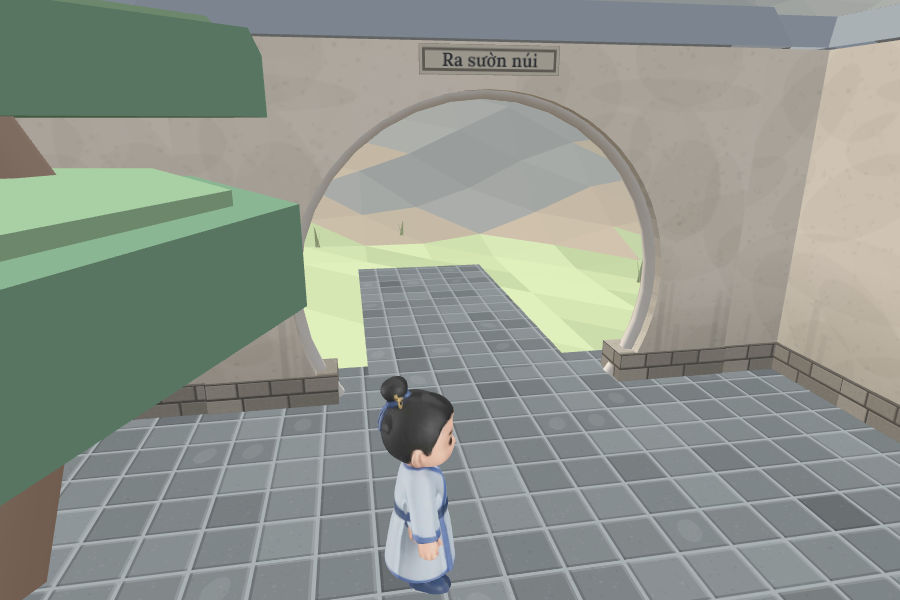
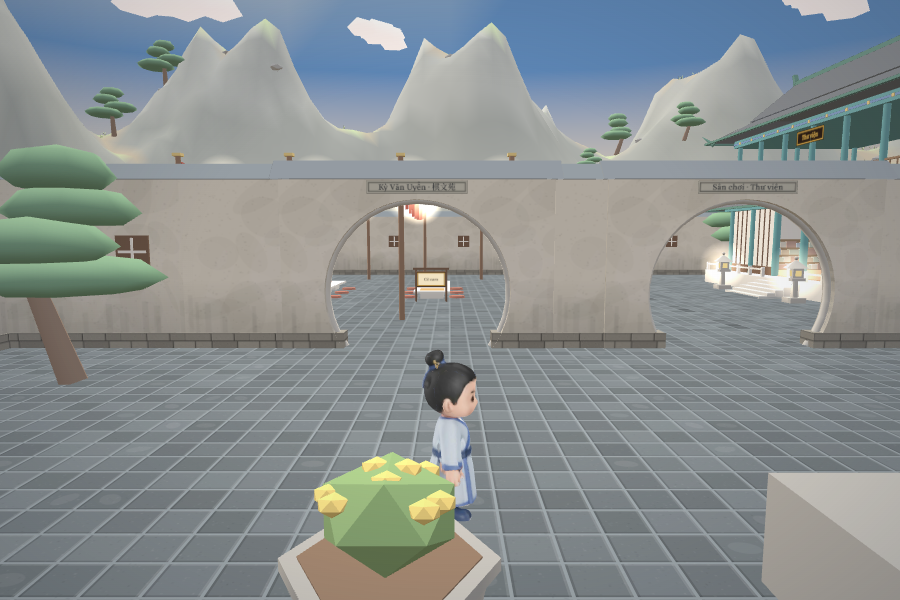
Cổng trăng thứ hai trên tường tây Quảng Trường ngang bàn chơi (V-20261114-24 làm lại)
Sửa 2026-11-14.24 đặt nhầm tường: bỏ cổng x −51 + lối lát ra ngoài; walls.gates thêm cổng
tây tâm z 4 rộng 6,4 (lối 4,6 m), biển "Kỳ Văn Uyển · 棋文苑" / "Quảng trường". R-VA-1, R-GIAO-1
sửa ví dụ (Xác nhận: chờ, chưa đồng bộ online); test va chạm cảnh thật. CHANGELOG 2026-11-14.27,
ảnh Canh-cong-ky-van.png chụp lại góc ảnh người dùng, Canvas 3D bản 55.

diff --git a/web/src/scene/walls.test.ts b/web/src/scene/walls.test.ts
@@ -76,7 +76,7 @@ describe('cổng trên đoạn tường thêm', () => {
   });
 });
 
-describe('R-VA-1: cổng trăng riêng tường tây Kỳ Văn Uyển – Tàng Thư Các (cảnh thật)', () => {
+describe('R-VA-1: cổng trăng thứ hai trên tường tây Quảng Trường, ngang bàn chơi Kỳ Văn Uyển (cảnh thật)', () => {
   const spec = loadScene(HOME_SCENE).spec;
   const real = (): Colliders => {
     const c = new Colliders();
@@ -84,13 +84,22 @@ describe('R-VA-1: cổng trăng riêng tường tây Kỳ Văn Uyển – Tàng 
     return c;
   };
 
-  it('R-VA-1: x −51 tâm z −26,5 rộng 6,4, lối 4,6 m; từ (−49; −26,5) đi tây qua được, z −30 / z −23 dừng ở x −50,25', () => {
-    const gate = wallGates(spec.walls, spec.wallSegments).find((g) => g.axis === 'z' && g.fixed === -51);
-    expect(gate && [gate.at, gate.width, gate.kind]).toEqual([-26.5, 6.4, 'trang']);
-    expect(2 * gateOpening(gate!)).toBeCloseTo(4.6, 6);
-    expect(walk(real(), -49, -26.5, -1, 0, 10).x).toBeLessThan(-55);
-    expect(walk(real(), -49, -30, -1, 0, 10).x).toBeCloseTo(-50.25, 2);
-    expect(walk(real(), -49, -23, -1, 0, 10).x).toBeCloseTo(-50.25, 2);
+  it('R-VA-1: x −17 tâm z 4 rộng 6,4, lối 4,6 m; từ (−15; 4) đi tây qua được, z 0 / z 7,5 dừng ở x −16,25', () => {
+    const west = wallGates(spec.walls, spec.wallSegments).filter((g) => g.axis === 'z' && g.fixed === -17);
+    expect(west.map((g) => g.at).sort((a, b) => a - b)).toEqual([-6, 4]);
+    const gate = west.find((g) => g.at === 4)!;
+    expect([gate.width, gate.kind]).toEqual([6.4, 'trang']);
+    expect(2 * gateOpening(gate)).toBeCloseTo(4.6, 6);
+    expect(walk(real(), -15, 4, -1, 0, 10).x).toBeLessThan(-24);
+    expect(walk(real(), -15, 0, -1, 0, 10).x).toBeCloseTo(-16.25, 2);
+    expect(walk(real(), -15, 7.5, -1, 0, 10).x).toBeCloseTo(-16.25, 2);
+    // ngược lại: từ sân chơi đi đông qua cổng ra Quảng Trường
+    expect(walk(real(), -24, 4, 1, 0, 10).x).toBeGreaterThan(-15);
+  });
+
+  it('tường ngoài x −51 kín (bỏ cổng đặt nhầm 2026-11-14.24)', () => {
+    expect(wallGates(spec.walls, spec.wallSegments).some((g) => g.axis === 'z' && g.fixed === -51)).toBe(false);
+    expect(walk(real(), -49, -26.5, -1, 0, 10).x).toBeCloseTo(-50.25, 2);
   });
 });
 

diff --git a/docs/testing/quy_tac.md b/docs/testing/quy_tac.md
@@ -51,7 +51,7 @@ Code: [web/src/collision/colliders.ts](../../web/src/collision/colliders.ts)
 
 | Mã | Quy tắc | Ví dụ | Xác nhận | App |
 |---|---|---|---|---|
-| R-VA-1 | Nhân vật (bán kính 0,5) không đi xuyên tường, nhà, cột cổng, giếng, ao / hồ, vật trang trí có va chạm (lò đan…) và cây có va chạm (cây trong sân, cụm cây); đi qua được khe cổng trên tường. **Cầu** (cầu vòm, cầu đá, cầu treo ở cảnh vùng) đi qua được nước / vực: mặt cầu lên xuống theo dốc cầu, lan can hai bên chặn (không rơi xuống nước). **Trường Thành**: một đoạn mặt tường đi được — lên xuống bằng mã đạo (dốc ≤ 35°, lan can ngoài mép dốc); trên mặt tường, đoạ khẩu (ngoài) và vũ tường (trong) chặn, chỉ hở đúng khe mã đạo; người dưới đất bị thân tường chặn, người trên mặt tường đi qua phía trên thân tường. Cây vòng ngoài tường, lối lát đá, đảo nổi, mây, **đàn hạc bay, thuyền trôi** không có va chạm. | Tường bao Quảng Trường dày 0,5: mặt trong tường bắc ở z = −16,75 → đi thẳng lên bắc ở x = 12 thì dừng ở z = −16,25. Cổng nam và cổng bắc là cổng mái ngói (門樓) tâm x = 0 rộng 9,6, lối đi 9 m (x −4,5 … 4,5), lối cao 4 m: đi thẳng xuống nam ở x = 0 hay x = 4 thì qua được, ở x = 5 (vào trụ cổng dày 0,8) thì dừng ở z = 16,1; đi thẳng lên bắc ở x = 0 thì qua cổng bắc ra chân Thiên Bậc. Cổng đông và cổng tây là cổng trăng rộng 6,4, lối đi 4,6 m — cổng đông tâm z = 0: đi về đông ở z = 0 thì qua được, ở z = 3 thì dừng ở x = 16,25; cổng tây tâm z = −6: đi về tây ở z = −6 thì qua được. Tường tây khu Kỳ Văn Uyển – Tàng Thư Các (x = −51, dày 0,5) có cổng trăng riêng tâm z = −26,5 rộng 6,4, lối đi 4,6 m (z −28,8 … −24,2), ra dải cỏ chân sườn núi phía tây (nối vòng xuống Cổng Trấn): từ (−49; −26,5) đi về tây thì qua được; ở z = −30 hay z = −23 thì dừng ở x = −50,25. Giang Nam: cầu vòm qua kênh ở x = 0 → đi thẳng lên bắc ở x = 0 thì lên lưng cầu rồi xuống bờ bắc; đi ở x = 2,5 (ra ngoài lan can) thì bị lan can chặn. Trường Thành: mặt tường x −30…−7 ở z −10 cao 6 m; đi từ (−24; −6) về đông lên mã đạo → tới (−12; −6) cao 6 m → rẽ bắc qua khe lên mặt tường; trên tường đi về bắc → đoạ khẩu chặn ở z ≈ −11,8. | chờ | ok |
+| R-VA-1 | Nhân vật (bán kính 0,5) không đi xuyên tường, nhà, cột cổng, giếng, ao / hồ, vật trang trí có va chạm (lò đan…) và cây có va chạm (cây trong sân, cụm cây); đi qua được khe cổng trên tường. **Cầu** (cầu vòm, cầu đá, cầu treo ở cảnh vùng) đi qua được nước / vực: mặt cầu lên xuống theo dốc cầu, lan can hai bên chặn (không rơi xuống nước). **Trường Thành**: một đoạn mặt tường đi được — lên xuống bằng mã đạo (dốc ≤ 35°, lan can ngoài mép dốc); trên mặt tường, đoạ khẩu (ngoài) và vũ tường (trong) chặn, chỉ hở đúng khe mã đạo; người dưới đất bị thân tường chặn, người trên mặt tường đi qua phía trên thân tường. Cây vòng ngoài tường, lối lát đá, đảo nổi, mây, **đàn hạc bay, thuyền trôi** không có va chạm. | Tường bao Quảng Trường dày 0,5: mặt trong tường bắc ở z = −16,75 → đi thẳng lên bắc ở x = 12 thì dừng ở z = −16,25. Cổng nam và cổng bắc là cổng mái ngói (門樓) tâm x = 0 rộng 9,6, lối đi 9 m (x −4,5 … 4,5), lối cao 4 m: đi thẳng xuống nam ở x = 0 hay x = 4 thì qua được, ở x = 5 (vào trụ cổng dày 0,8) thì dừng ở z = 16,1; đi thẳng lên bắc ở x = 0 thì qua cổng bắc ra chân Thiên Bậc. Cổng đông và cổng tây là cổng trăng rộng 6,4, lối đi 4,6 m — cổng đông tâm z = 0: đi về đông ở z = 0 thì qua được, ở z = 3 thì dừng ở x = 16,25; cổng tây tâm z = −6: đi về tây ở z = −6 thì qua được. Tường tây Quảng Trường (x = −17) có thêm cổng trăng thứ hai tâm z = 4 rộng 6,4, lối đi 4,6 m (z 1,7 … 6,3), ngay ngang bàn cờ Kỳ Văn Uyển: từ (−15; 4) đi về tây thì qua được vào sân chơi; ở z = 0 hay z = 7,5 (vào tường / trụ cổng) thì dừng ở x = −16,25. Tường ngoài x = −51 kín, không có cổng. Giang Nam: cầu vòm qua kênh ở x = 0 → đi thẳng lên bắc ở x = 0 thì lên lưng cầu rồi xuống bờ bắc; đi ở x = 2,5 (ra ngoài lan can) thì bị lan can chặn. Trường Thành: mặt tường x −30…−7 ở z −10 cao 6 m; đi từ (−24; −6) về đông lên mã đạo → tới (−12; −6) cao 6 m → rẽ bắc qua khe lên mặt tường; trên tường đi về bắc → đoạ khẩu chặn ở z ≈ −11,8. | chờ | ok |
 | R-VA-2 | Khi cảnh có địa hình: nhân vật đi trên mặt đất, lên xuống theo độ cao. Không bước được vào mặt đất dốc hơn 35° (cả lên lẫn xuống), như gặp tường; vì vậy không đi ra khỏi mép cao nguyên (vực xuống biển mây). Đang đứng trên mặt dốc hơn 35° thì chỉ đi xuống được. | Kè đá cao 1,5 m trong bề ngang 1 m (dốc ≈ 56°) → dừng ở chân kè. Sườn đồi dốc 30° → đi lên được, nhân vật cao dần theo mặt đất. Đi tới mép vực → dừng ở mép. | đúng | ok |
 | R-VA-3 | Nhà vào được ở trấn — **trà lâu, Tàng Thư Các, cửa hàng phố chợ** (tầng 1) và **sân khấu hí đài**: tường, cột, quầy, bàn, ghế chặn nhân vật; mặt tiền mở đi vào được. Hí đài: nền cao 1,5 m, lên xuống bằng bậc hai bên hậu đài; mép sân khấu chặn (không bước / nhảy lên hay xuống ở mép trước, mép bên). **Tàng Thư Các và trà lâu (Phẩm Minh Các) lên được tầng 2** bằng **thang thẳng một vế ngoài trời** dọc đầu hồi bên phải (sửa L-6, 2026-11-13): chân thang ở mặt đất phía trước, đi thẳng về sau (dốc ≤ 35°) lên chiếu nghỉ, rẽ trái qua cầu nối vào sàn tầng 2; lan can hai bên thang, quanh chiếu nghỉ và cầu nối chặn (không rơi); người dưới đất không lọt vào gầm thang. Đi dưới sàn tầng 2 vẫn ở tầng 1; tầng 2 **không tường, chỉ cột** — lan can gỗ thấp (~0,9 m) giữa các cột quanh mép sàn chặn (không rơi xuống, không ra ngoài; mép hồi phải chỉ hở chỗ cầu nối); vật tầng 1 không chặn người ở tầng 2 và ngược lại. Tầng 2 của cửa hàng chỉ nhìn, không lên được. Trà lâu tầng 1: 3 bàn trà + quầy trà. | Trà lâu Phẩm Minh Các (0; −60) quay nam: đi từ (0; −51) về bắc vào gian giữa → vào trong, dừng trước bàn trà; đi vòng ra sau nhà → tường sau chặn; ra ngoài, tới chân thang ngoài hồi phải (x ≈ 11,8) → đi thẳng lên chiếu nghỉ → qua cầu nối vào tầng 2; trên tầng 2 đi ra mép trước → lan can chặn, vẫn ở tầng 2. Hí đài (0; −11), sân khấu z −15,5…−6,5: đứng dưới sân ở (0; −3) đi thẳng bắc → mép sân khấu chặn, dừng ở z ≈ −6; đi vòng ra bậc phía sau bên trái → lên tới sân khấu, đứng ở (0; −10) cao 1,5 m. Tàng Thư Các (−33; −22): chân thang ngoài hồi phải ở (−21,4; −13) → đi thẳng về bắc lên chiếu nghỉ → qua cầu nối vào tầng 2; đi về phía tây trên tầng 2 → vẫn ở tầng 2; đang giữa thang đi ngang ra ngoài → lan can chặn. Ở tầng 1 đi tới án đọc giữa nhà → vẫn ở tầng 1. | chờ | ok |
 | R-VA-4 | **Chỗ ngồi tự học tầng 2 Tàng Thư Các**: không có án / bàn, chỉ **24 bồ đoàn vuông** xếp lưới 4 hàng × 6, người ngồi nhìn về nam; bồ đoàn không chặn người đi. Sát tường sau phía đông có **biển gỗ "Khu tự học"** (chữ Việt, mặt nhìn vào sàn), chặn người ở tầng 2, không chặn tầng 1; đứng gần biển → nút nổi **"Hướng dẫn"** → bảng hướng dẫn khu tự học (R-VA-5). Ngồi lên bồ đoàn khu tự học (nút nổi "Ngồi") đủ **1 giây** → nhập định + cuộn sách **trước mặt** + các mục như Ngồi ôn (R-ON-8): "Ôn bộ đến hạn (n)", "Xem bộ đã học" như mọi nơi, "Học bộ mới" mờ ghi "Học ở Rừng trúc" (R-VUNG-1); "Đứng dậy" → đứng khỏi bồ đoàn; đóng thẻ / màn ôn / danh sách → vẫn ngồi trên bồ đoàn, bảng hiện lại. **Tầng 2 trà lâu (Phẩm Minh Các)** có 4 kiểu chỗ ngồi, tổng **18 chỗ**: **2 sập trà** sát tường sau — sập gỗ thấp (cao 0,45 m) có tựa ba mặt (sau + hai đầu), kỷ trà ở giữa, 2 chỗ ngồi **trên sập** ở hai đầu quay mặt vào nhau; **4 ghế đơn sát lan can** (2 mặt trước, 2 hồi trái) — bồ đoàn + bàn nhỏ phía lan can, người ngồi **quay ra ngoài** nhìn cảnh, nhìn từ mắt (R-DIEU-7), hai tay trên lan can; **1 bàn dài tụ hội** 6 chỗ (3 bồ đoàn mỗi bên, quay mặt vào bàn); **2 bàn trà đôi** (bồ đoàn bắc + nam, quay mặt vào bàn). Bàn, sập trà lâu chặn nhân vật (không bước lên sập); dải phía đông sàn tầng 2 (lối từ cầu nối thang) để trống. Đứng **cùng tầng** cách một chỗ ngồi dưới 1,2 m → nút nổi **"Ngồi"** (R-NGOI-1); bấm → nhân vật dời lên chỗ đó (chỗ trên sập: cao theo mặt sập), quay theo chỗ ngồi và ngồi xếp bằng; điều khiển đi thì đứng dậy như R-DIEU-7 (đang trên sập → bước xuống phía trước sập, đứng trên sàn). Chỗ ngồi trà lâu không mở cuộn sách / bài học, không ghi tiến độ (R-VUNG-1). Ở tầng 1 ngay dưới một chỗ ngồi → không có nút (khác tầng); bấm Ngồi ôn → ngồi tại chỗ ở tầng 1. | Tàng Thư Các: lên tầng 2, thấy biển "Khu tự học" sát tường sau phía đông, đi vào biển → bị chặn; đứng cạnh bồ đoàn đầu hàng ~0,8 m → nút "Ngồi"; bấm → ngồi lên bồ đoàn, nhìn về phía cửa trước (nam); 1 giây → cuộn sách, bảng chọn "Học bộ mới" mờ "Học ở Rừng trúc"; bấm "Đứng dậy" → đứng khỏi bồ đoàn; đi thẳng qua chỗ có bồ đoàn → không bị chặn. Tầng 1 ngay dưới biển → đi qua được. Trà lâu: lên tầng 2, đứng trước sập trà (phía nam, cách đầu sập ~1 m) → "Ngồi"; bấm → ngồi trên sập cao hơn sàn 0,45 m, quay vào kỷ trà; giữ joystick → bước xuống, đứng trên sàn trước sập. Đứng sau ghế đơn mặt trước → "Ngồi"; bấm → ngồi quay về nam, nhìn ra núi qua lan can. Đi từ cầu nối thang dọc mép đông xuống mặt trước → không vướng bàn ghế nào. Xuống tầng 1, đứng dưới đúng chỗ đó → không có nút; bấm Ngồi ôn → ngồi tại chỗ, vẫn ở tầng 1. | chờ | ok · ghế lan can tay đặt lên lan can (camera + tay nhoài tới, dáng ngồi ngoài cảnh không đổi): `scene/tayNgoiDang.test.ts` |
@@ -119,7 +119,7 @@ Code: [web/src/games/](../../web/src/games/), [web/src/gamePlay.ts](../../web/sr
 
 | Mã | Quy tắc | Ví dụ | Xác nhận | App |
 |---|---|---|---|---|
-| R-GIAO-1 | Khu giao lưu **Kỳ Văn Uyển** (棋文苑) — sân phía nam trong khu tường phía tây Quảng Trường (vào qua cổng tây Quảng Trường, hoặc cổng trăng riêng trên tường tây x −51 ở phía Tàng Thư Các; chung sân với Tàng Thư Các, không tường ngăn) — có hai **bàn đá dài**: **bàn cờ** và **bàn Đấu chữ**. Mỗi bàn **3 chỗ chơi** dọc bàn; mỗi chỗ một bàn cờ (hoặc thẻ bộ thủ) riêng và **hai bồ đoàn đối diện** nhau — 6 ghế một bàn. NPC của bàn (cờ: Tiểu Mặc, Đấu chữ: Mặc Ông) **không đứng ở bàn**: vẫn đi nước / chọn nghĩa và nói qua khung thoại. Đứng cách **một ghế bất kỳ** dưới 1,5 m → nút nổi **"Vào bàn"** (R-NGOI-1); bấm → ngồi vào ghế gần nhất, quay mặt vào bàn (về ghế đối diện), camera trượt vào **mắt mình** rồi **cúi nhoài nhìn xuống chỗ chơi** (khoảng 70°), bàn cờ / thẻ vừa bề ngang màn; không thấy đầu, thân mình; **hai tay** ở mép dưới — đặt quân thì tay phải đưa quân tới giao điểm rồi rút về (Đấu chữ: hai tay cầm mép thẻ bộ thủ, 4 nghĩa vẫn ở HUD R-DAU-2); thẻ bộ thủ quay chữ về phía mình, ván mới bắt đầu ở chỗ đó. Đang ngồi chơi: **ẩn joystick và cụm nút Nhảy / Chào / Ngồi ôn**; chạm màn hình là chạm vào bàn (không đi tới chỗ chạm, không xoay camera); nút **"Rời bàn"** góc trên trái (máy tính: phím **Esc**, hoặc đi bằng phím) → đứng dậy, ván đang chơi **bỏ** (không tính), chỗ đó dọn sạch, tỉ số phiên về 0. Người chơi đấu với nhau ở ghế đối diện: **chưa có** (cần nhiều người chơi trực tuyến). | Bàn cờ dài tâm (−34; 4), 3 chỗ ở x −36,5 / −34 / −31,5 (cách nhau 2,5 m); mặt bàn sâu 2 m; mỗi chỗ ghế phía nam z 5,4 và phía bắc z 2,6. Đứng ở (−36,5; 6,5) → nút "Vào bàn"; bấm → ngồi lên (−36,5; 5,4), nhìn về bắc, ván cờ bắt đầu ở chỗ x −36,5. Đứng ở (−34; 1,5) bấm "Vào bàn" → ngồi (−34; 2,6), nhìn về nam. Ngồi bàn cờ → không thấy joystick, nút Nhảy / Chào / Ngồi ôn; chạm giao điểm ở mép trái màn → đặt quân. Đặt 3 quân rồi bấm "Rời bàn" → đứng dậy, chỗ đó trống, joystick hiện lại. Đứng ở (−34; 7,5) (cách ghế gần nhất 2,1 m) → không có nút; bấm Ngồi ôn → ngồi tại chỗ. Không có NPC đứng cạnh bàn. | chờ | ok · tay đặt quân: `scene/tayNgoiDang.test.ts` |
+| R-GIAO-1 | Khu giao lưu **Kỳ Văn Uyển** (棋文苑) — sân phía nam trong khu tường phía tây Quảng Trường (vào qua cổng tây Quảng Trường, hoặc cổng trăng thứ hai trên tường tây Quảng Trường ngay ngang chỗ bàn chơi (tâm z 4); chung sân với Tàng Thư Các, không tường ngăn) — có hai **bàn đá dài**: **bàn cờ** và **bàn Đấu chữ**. Mỗi bàn **3 chỗ chơi** dọc bàn; mỗi chỗ một bàn cờ (hoặc thẻ bộ thủ) riêng và **hai bồ đoàn đối diện** nhau — 6 ghế một bàn. NPC của bàn (cờ: Tiểu Mặc, Đấu chữ: Mặc Ông) **không đứng ở bàn**: vẫn đi nước / chọn nghĩa và nói qua khung thoại. Đứng cách **một ghế bất kỳ** dưới 1,5 m → nút nổi **"Vào bàn"** (R-NGOI-1); bấm → ngồi vào ghế gần nhất, quay mặt vào bàn (về ghế đối diện), camera trượt vào **mắt mình** rồi **cúi nhoài nhìn xuống chỗ chơi** (khoảng 70°), bàn cờ / thẻ vừa bề ngang màn; không thấy đầu, thân mình; **hai tay** ở mép dưới — đặt quân thì tay phải đưa quân tới giao điểm rồi rút về (Đấu chữ: hai tay cầm mép thẻ bộ thủ, 4 nghĩa vẫn ở HUD R-DAU-2); thẻ bộ thủ quay chữ về phía mình, ván mới bắt đầu ở chỗ đó. Đang ngồi chơi: **ẩn joystick và cụm nút Nhảy / Chào / Ngồi ôn**; chạm màn hình là chạm vào bàn (không đi tới chỗ chạm, không xoay camera); nút **"Rời bàn"** góc trên trái (máy tính: phím **Esc**, hoặc đi bằng phím) → đứng dậy, ván đang chơi **bỏ** (không tính), chỗ đó dọn sạch, tỉ số phiên về 0. Người chơi đấu với nhau ở ghế đối diện: **chưa có** (cần nhiều người chơi trực tuyến). | Bàn cờ dài tâm (−34; 4), 3 chỗ ở x −36,5 / −34 / −31,5 (cách nhau 2,5 m); mặt bàn sâu 2 m; mỗi chỗ ghế phía nam z 5,4 và phía bắc z 2,6. Đứng ở (−36,5; 6,5) → nút "Vào bàn"; bấm → ngồi lên (−36,5; 5,4), nhìn về bắc, ván cờ bắt đầu ở chỗ x −36,5. Đứng ở (−34; 1,5) bấm "Vào bàn" → ngồi (−34; 2,6), nhìn về nam. Ngồi bàn cờ → không thấy joystick, nút Nhảy / Chào / Ngồi ôn; chạm giao điểm ở mép trái màn → đặt quân. Đặt 3 quân rồi bấm "Rời bàn" → đứng dậy, chỗ đó trống, joystick hiện lại. Đứng ở (−34; 7,5) (cách ghế gần nhất 2,1 m) → không có nút; bấm Ngồi ôn → ngồi tại chỗ. Không có NPC đứng cạnh bàn. | chờ | ok · tay đặt quân: `scene/tayNgoiDang.test.ts` |
 | R-GIAO-2 | Mỗi bàn chơi ở Kỳ Văn Uyển có một **biển gỗ đứng** ở đầu bàn ghi tên trò: bằng chữ Việt: bàn cờ **Cờ caro**, bàn Đấu chữ **Đấu chữ**. Đứng cách biển **dưới 2,5 m** (không đang ngồi, không đang nói chuyện / xem bản đồ / màn phủ) → nút nổi **"Cách chơi"** trên biển, kèm tên trò. Bấm → mở **bảng cách chơi** của trò đó (phủ lên cảnh, nhân vật đứng yên): tên trò, mục tiêu, cách đi từng lượt, thắng / thua / hoà, hình minh hoạ, cách vào bàn và rời bàn; nút đóng (và nút quay lại của máy) → về cảnh. Nội dung bảng nói đúng luật của trò (R-GIAO-1, R-CO-1…3, R-DAU-1…2). Đứng gần hai biển cùng lúc → nút của biển gần hơn. Bảng Đấu chữ khi chưa học bộ thủ nào → thêm ô báo "Đạo hữu chưa học bộ thủ nào" ở đầu (vẫn đọc được luật). | Biển bàn cờ ở (−29,5; 4). Đứng ở (−28; 4) (cách 1,5 m) → nút "Cách chơi · Cờ caro"; bấm → bảng cách chơi cờ caro (Ngũ Tử Kỳ): "bàn 13 × 13, cầm quân đen đi trước, 5 quân liền ngang / dọc / chéo thắng" + hình 5 quân liền; đóng → về cảnh, đứng chỗ cũ. Đứng ở (−26; 4) (cách 3,5 m) → không có nút. Đang ngồi vào bàn → không có nút. | chờ | ok |
 | R-CO-1 | **Ngũ Tử Kỳ** (五子棋): bàn 13 × 13 giao điểm. Người chơi cầm quân **đen, đi trước**; NPC cầm quân trắng. Tới lượt người: chạm vào giao điểm trống → đặt quân; chạm giao điểm đã có quân, chạm ngoài bàn, hoặc chạm lúc NPC đang nghĩ → không có gì. Một bên có **từ 5 quân cùng màu trở lên liền nhau** theo hàng ngang, dọc hoặc chéo → bên đó thắng ngay. Bàn đầy (169 quân) mà chưa ai thắng → hoà. | Đen có (3;7) (4;7) (5;7) (6;7), đặt (7;7) → đen thắng. Đen có 4 quân chéo (2;2) … (5;5) và (7;7), đặt (6;6) → 6 quân liền, đen thắng. Chạm (3;7) đã có quân → không đổi gì, vẫn lượt người. | chờ | ok |
 | R-CO-2 | NPC đáp sau khoảng **0,5–1 giây**. Có nước đặt vào là thắng ngay → NPC luôn đặt nước đó. Không có, mà người chơi có nước thắng ngay (ví dụ 4 quân liền còn một đầu trống) → NPC luôn chặn. Còn lại NPC chọn nước tốt nhất theo điểm: nối dài hàng của mình, chặn hàng 3 hở hai đầu của người. Ván đầu tiên trên bàn trống, NPC không đi trước. | Đen có (3;7) (4;7) (5;7) (6;7), (2;7) đã có quân trắng → NPC đặt (7;7). Trắng có (5;2) (5;3) (5;4) (5;5), đen vừa tạo 4 quân liền khác → NPC đặt (5;6) hoặc (5;1) để thắng, không chặn. | chờ | ok |

diff --git a/design/CHANGELOG.md b/design/CHANGELOG.md
@@ -3,6 +3,27 @@
 Mỗi lần chốt một mục, mới nhất ở trên. Mã `<YYYY-MM-DD>.<số>`. Mỗi mục: loại (token · chuỗi · giao diện ·
 luồng/luật · dữ liệu), màn / thành phần, phiếu đáp ứng (nếu có), file đổi.
 
+## 2026-11-14.27 — Cổng trăng thứ hai trên tường tây Quảng Trường, ngang bàn chơi (sửa .24 đặt nhầm tường)
+
+- Loại: cảnh 3D — **bố cục**. Ai làm: phiên code V-20261114-24 (làm lại) làm thay vai thiết kế (`/canh`). Người dùng gửi
+  ảnh mới: đứng trong Quảng Trường nhìn về tây — chỗ muốn mở cổng là khúc tường có hai ô cửa sổ bên trái (phía nam) cổng
+  trăng cũ. **Sửa 2026-11-14.24 đặt nhầm tường** (cổng ở tường ngoài x −51). **Đã duyệt 2026-11-14** (người dùng chọn chỗ
+  trong ảnh, cổng trăng, bỏ cổng nhầm).
+- `scene.json`: bỏ `wallSegments[1].gate` (cổng trăng x −51 tâm z −26,5) và lối lát (−51,5; −26,5) → (−59; −26,5) — tường
+  ngoài x −51 kín như trước .24. `walls.gates` thêm cổng `tay` tâm z 4 (giữa hai ô cửa sổ, ngang bàn cờ z 4), rộng 6,4,
+  cổng trăng như cổng tây cũ (lối 4,6 m, z 1,7 … 6,3); biển đông (phía Quảng Trường) "Kỳ Văn Uyển · 棋文苑", tây (phía sân
+  chơi) "Quảng trường". Hai ô cửa sổ khúc đó tự nhường chỗ cho khe cổng (khúc −2,8 … 0,8 giữa hai cổng không còn cửa sổ;
+  khúc 7,2 … 17,25 còn một ô ở z ≈ 12,2). Sân Kỳ Văn Uyển đã lát kín → không thêm `paths`.
+- Sau tường (x −18 … −22): trống. Gần nhất: cột dây đèn lồng (−22,8; 5) (cách lối 5,8 m vào trong, đi thẳng z 4 lách qua
+  được), biển "Cờ caro" (−29,5; 4) — nhìn qua cổng thấy ngay; ghế bàn cờ gần nhất x −31,5 (cách cổng > 14 m, ngoài tầm
+  "Vào bàn" 1,5 m); mai (−24,5; 13,5), đèn đá (−29; −3,5) không chạm. Không NPC.
+- Luật: R-VA-1 (bỏ ví dụ cổng x −51; thêm ví dụ cổng mới), R-GIAO-1 (lối vào thứ hai) — Xác nhận `chờ`. `scene:check`
+  không lỗi. Draw call nhìn trên 137 → 136 (tam giác 150 456 → 150 424); góc ảnh người dùng 58 → 57.
+- Canvas 3D: bản 55 ("main + V-24 sửa cổng"). Góc ảnh người dùng `?nv=-6,3&cam=1,3.5,3&tam=-17,3`; từ sân chơi
+  `?nv=-24,6&cam=-30,3.5,7&tam=-17,4`.
+- Ảnh: `screens/Canh-cong-ky-van.png` (chụp lại, góc ảnh người dùng).
+- File: `scene/scene.json`, ảnh trên.
+
 ## 2026-11-14.26 — Khởi Nguyên Trấn: màu về như cũ, giữ hiệu ứng mềm
 
 - Loại: cảnh 3D — **ngoại hình**. Ai làm: phiên code V-20261114-25 làm thay vai thiết kế (`/canh`). Người dùng: "đổi màu
